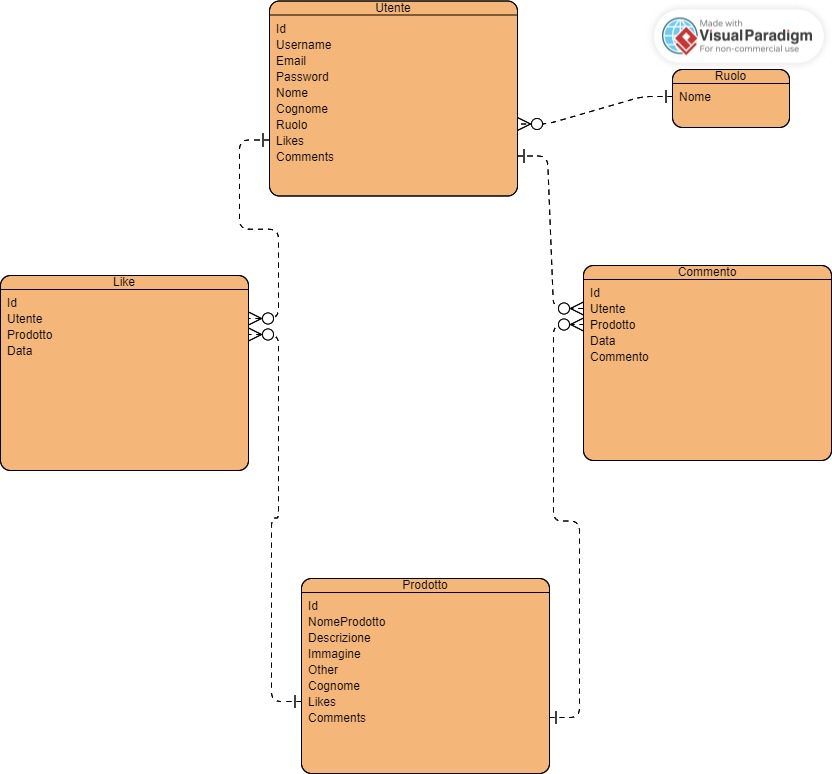
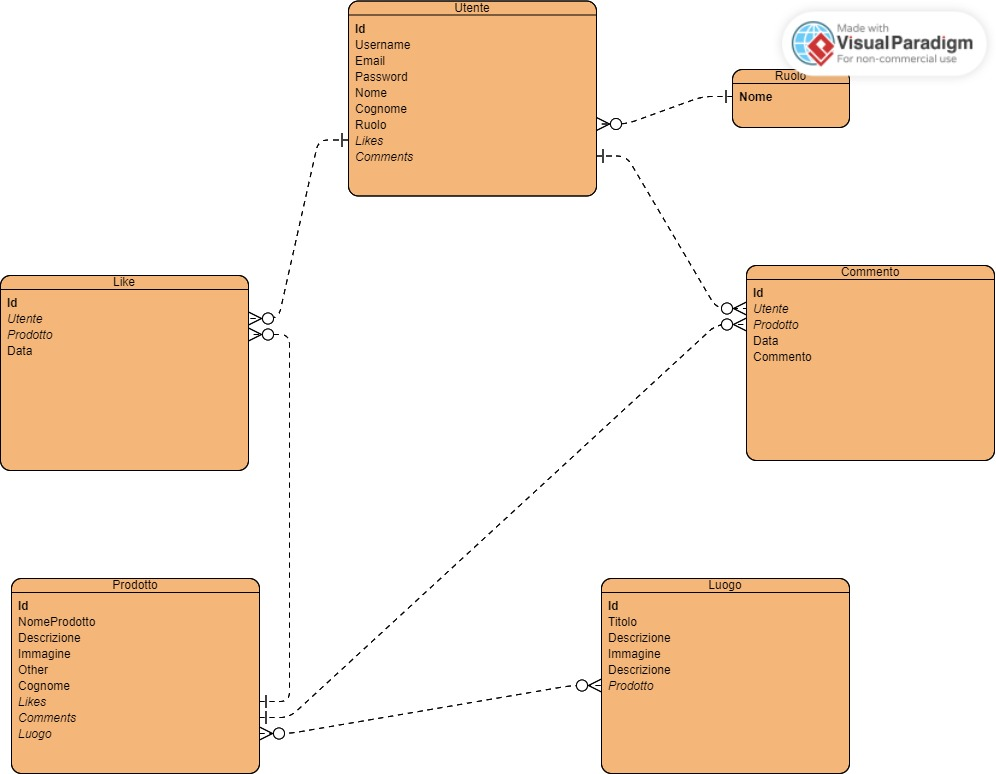
created Luogo entity

diff --git a/StreetFood/src/main/java/luke932/StreetFood/AppRunner.java b/StreetFood/src/main/java/luke932/StreetFood/AppRunner.java
@@ -1,6 +1,8 @@
 package luke932.StreetFood;
 
 import java.time.LocalDate;
+import java.util.ArrayList;
+import java.util.List;
 import java.util.Locale;
 
 import org.springframework.beans.factory.annotation.Autowired;
@@ -11,12 +13,14 @@ import com.github.javafaker.Faker;
 
 import luke932.StreetFood.entities.Commento;
 import luke932.StreetFood.entities.Like;
+import luke932.StreetFood.entities.Luogo;
 import luke932.StreetFood.entities.Prodotto;
 import luke932.StreetFood.entities.Ruolo;
 import luke932.StreetFood.entities.Utente;
 import luke932.StreetFood.payloads.RuoloSavePayload;
 import luke932.StreetFood.services.CommentoService;
 import luke932.StreetFood.services.LikeService;
+import luke932.StreetFood.services.LuogoService;
 import luke932.StreetFood.services.ProdottoService;
 import luke932.StreetFood.services.RuoloService;
 import luke932.StreetFood.services.UtenteService;
@@ -30,6 +34,8 @@ public class AppRunner implements CommandLineRunner {
 	UtenteService utenteSrv;
 	@Autowired
 	ProdottoService prodottoSrv;
+	@Autowired
+	LuogoService luogoSrv;
 	@Autowired
 	CommentoService commentoSrv;
 	@Autowired
@@ -53,25 +59,35 @@ public class AppRunner implements CommandLineRunner {
 		utenteAdmin.setRuolo(ruoloAdmin);
 		// utenteSrv.save(utenteAdmin);
 
-		// ----------------CREAZIONE PRODOTTI
+		// ----------------CREAZIONE LUOGHI
+		for (int i = 0; i < 10; i++) {
+			Luogo luogo = new Luogo();
+			luogo.setTitolo(faker.address().city());
+			luogo.setImmagine(faker.internet().image());
+			luogo.setDescrizione(faker.lorem().paragraph());
+			// luogoSrv.saveLuogo(luogo);
+		}
 
+		// ----------------CREAZIONE PRODOTTI
+		List<Luogo> luoghiDalDb = new ArrayList<>();
+		luoghiDalDb = luogoSrv.findNoPage();
 		for (int i = 0; i < 10; i++) {
 			Prodotto product = new Prodotto();
 			product.setNomeProdotto(faker.food().dish());
 			product.setDescrizione(faker.lorem().sentence());
 			product.setImmagine(faker.internet().image());
 			product.setAltro(faker.internet().avatar());
-
+			product.setLuogo(luoghiDalDb.get(faker.number().numberBetween(0, luoghiDalDb.size() - 1)));
 			// prodottoSrv.saveProdotto(product);
 		}
 
 		// ----------------CREAZIONE COMMENTO
-		Prodotto prodottiDalDB = prodottoSrv.findByNomeProdotto("Pierogi");
+		Prodotto prodottiDalDb = prodottoSrv.findByNomeProdotto("Sushi");
 		Utente utentidalDb = utenteSrv.findByNome("Luca");
 		Commento commento = new Commento();
 		commento.setTestoCommento("ciao");
 		commento.setDataCommento(LocalDate.now());
-		commento.setProdotto(prodottiDalDB);
+		commento.setProdotto(prodottiDalDb);
 		commento.setUtente(utentidalDb);
 
 		// commentoSrv.saveCommento(commento);
@@ -79,7 +95,7 @@ public class AppRunner implements CommandLineRunner {
 		// ----------------CREAZIONE LIKE
 		Like like = new Like();
 		like.setDataLike(LocalDate.now());
-		like.setProdotto(prodottiDalDB);
+		like.setProdotto(prodottiDalDb);
 		like.setUtente(utentidalDb);
 
 		// likeSrv.saveLike(like);

diff --git a/StreetFood/src/main/java/luke932/StreetFood/services/LuogoService.java b/StreetFood/src/main/java/luke932/StreetFood/services/LuogoService.java
@@ -1,0 +1,71 @@
+package luke932.StreetFood.services;
+
+import java.util.List;
+import java.util.Optional;
+import java.util.UUID;
+
+import org.springframework.beans.factory.annotation.Autowired;
+import org.springframework.data.domain.Page;
+import org.springframework.data.domain.PageRequest;
+import org.springframework.data.domain.Pageable;
+import org.springframework.data.domain.Sort;
+import org.springframework.stereotype.Service;
+
+import luke932.StreetFood.entities.Luogo;
+import luke932.StreetFood.exceptions.NotFoundException;
+import luke932.StreetFood.payloads.NewLuogoPayload;
+import luke932.StreetFood.repositories.LuogoRepository;
+
+@Service
+public class LuogoService {
+
+	private final LuogoRepository luogoR;
+
+	@Autowired
+	public LuogoService(LuogoRepository luogoR) {
+		this.luogoR = luogoR;
+	}
+
+	// -----------SALVATAGGIO LUOGHI
+	public Luogo saveLuogo(Luogo luogo) {
+		return luogoR.save(luogo);
+	}
+
+	// -----------GET LUOGHI
+	public List<Luogo> findNoPage() {
+		return luogoR.findAll();
+	}
+
+	// -----------IMPAGINAZIONE GET LUOGHI
+	public Page<Luogo> find(int page, int size, String sort) {
+		Pageable pag = PageRequest.of(page, size, Sort.by(sort));
+		return luogoR.findAll(pag);
+	}
+
+	// -----------------RICERCA PER NOME PRODOTTO
+	public Luogo findByTitolo(String titolo) {
+		return luogoR.findByTitolo(titolo);
+	}
+
+	// ------------RICERCA LUOGO PER ID
+	public Luogo getLuogoByID(UUID id) {
+		Optional<Luogo> found = luogoR.findById(id);
+		return found.orElseThrow(() -> new NotFoundException("Luogo non trovato con ID " + id));
+	}
+
+	// ------------MODIFICA LUOGO PER ID
+	public Luogo updateCliente(UUID id, NewLuogoPayload body) {
+		Luogo found = this.getLuogoByID(id);
+		found.setTitolo(body.getTitolo());
+		found.setImmagine(body.getImmagine());
+		found.setDescrizione(body.getDescrizione());
+
+		return luogoR.save(found);
+	}
+
+	// ------------CANCELLAZIONE CLIENTE PER ID
+	public void deleteCliente(UUID id) {
+		Luogo found = getLuogoByID(id);
+		luogoR.delete(found);
+	}
+}

diff --git a/StreetFood/src/main/java/luke932/StreetFood/entities/Prodotto.java b/StreetFood/src/main/java/luke932/StreetFood/entities/Prodotto.java
@@ -6,11 +6,15 @@ import java.util.UUID;
 import jakarta.persistence.Entity;
 import jakarta.persistence.GeneratedValue;
 import jakarta.persistence.Id;
+import jakarta.persistence.JoinColumn;
+import jakarta.persistence.ManyToOne;
 import jakarta.persistence.OneToMany;
 import lombok.Data;
+import lombok.ToString;
 
 @Entity
 @Data
+@ToString
 public class Prodotto {
 
 	@Id
@@ -21,6 +25,10 @@ public class Prodotto {
 	private String Descrizione;
 	private String immagine;
 	private String altro;
+
+	@ManyToOne
+	@JoinColumn(name = "luogo_id")
+	private Luogo luogo;
 
 	@OneToMany(mappedBy = "prodotto")
 	private Set<Like> likes;

diff --git a/StreetFood/src/main/java/luke932/StreetFood/entities/Luogo.java b/StreetFood/src/main/java/luke932/StreetFood/entities/Luogo.java
@@ -1,0 +1,28 @@
+package luke932.StreetFood.entities;
+
+import java.util.HashSet;
+import java.util.Set;
+import java.util.UUID;
+
+import jakarta.persistence.Entity;
+import jakarta.persistence.GeneratedValue;
+import jakarta.persistence.Id;
+import jakarta.persistence.OneToMany;
+import lombok.Data;
+import lombok.ToString;
+
+@Entity
+@Data
+@ToString
+public class Luogo {
+
+	@Id
+	@GeneratedValue
+	private UUID id;
+	private String titolo;
+	private String immagine;
+	private String descrizione;
+
+	@OneToMany(mappedBy = "luogo")
+	private Set<Prodotto> prodotti = new HashSet<>();
+}

diff --git a/StreetFood/src/main/java/luke932/StreetFood/repositories/LuogoRepository.java b/StreetFood/src/main/java/luke932/StreetFood/repositories/LuogoRepository.java
@@ -1,0 +1,14 @@
+package luke932.StreetFood.repositories;
+
+import java.util.UUID;
+
+import org.springframework.data.jpa.repository.JpaRepository;
+import org.springframework.stereotype.Repository;
+
+import luke932.StreetFood.entities.Luogo;
+
+@Repository
+public interface LuogoRepository extends JpaRepository<Luogo, UUID> {
+
+	Luogo findByTitolo(String titolo);
+}

diff --git a/StreetFood/src/main/java/luke932/StreetFood/payloads/NewLuogoPayload.java b/StreetFood/src/main/java/luke932/StreetFood/payloads/NewLuogoPayload.java
@@ -1,0 +1,17 @@
+package luke932.StreetFood.payloads;
+
+import lombok.AllArgsConstructor;
+import lombok.Getter;
+import lombok.NoArgsConstructor;
+import lombok.Setter;
+
+@Getter
+@Setter
+@AllArgsConstructor
+@NoArgsConstructor
+public class NewLuogoPayload {
+
+	private String titolo;
+	private String immagine;
+	private String descrizione;
+}
